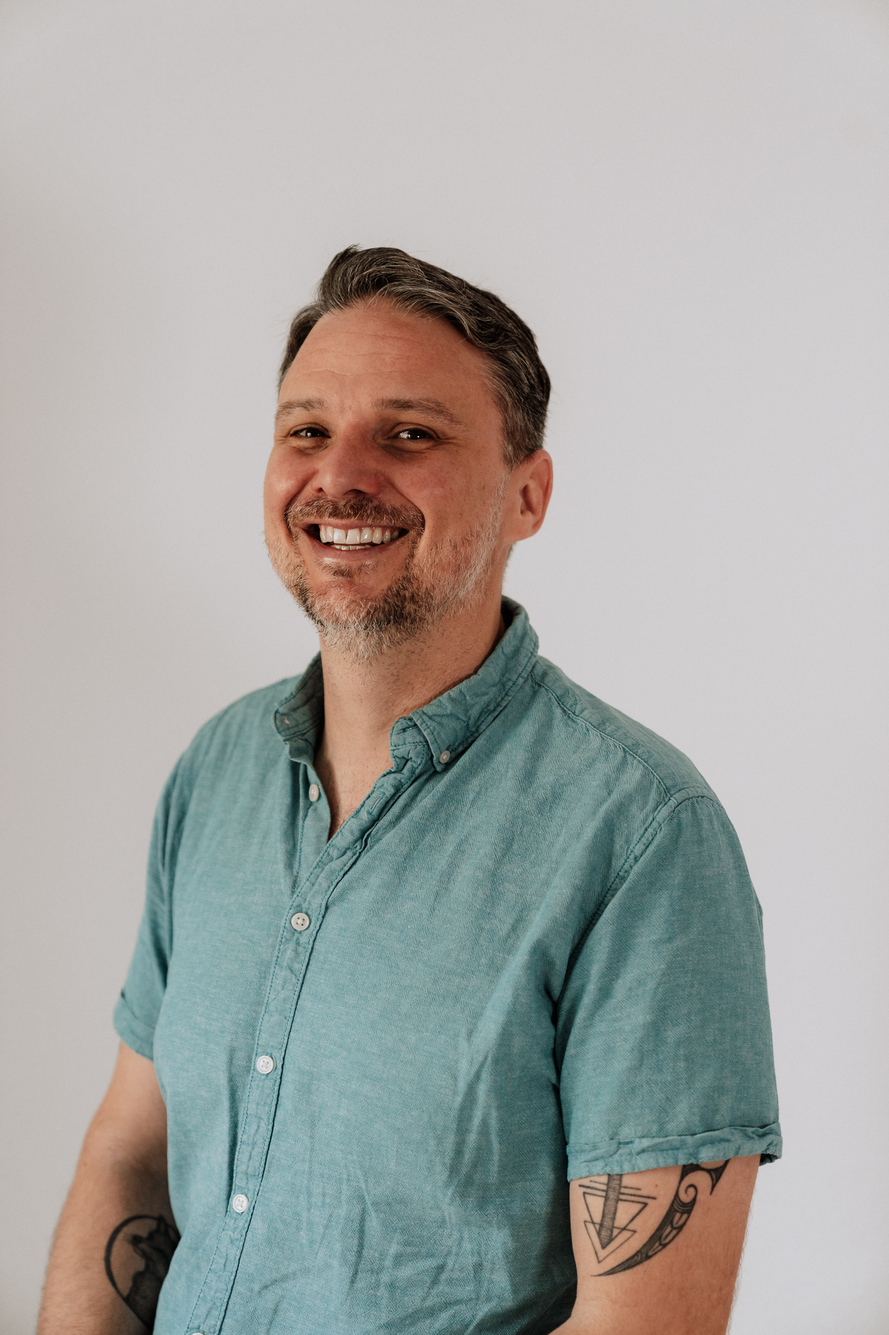
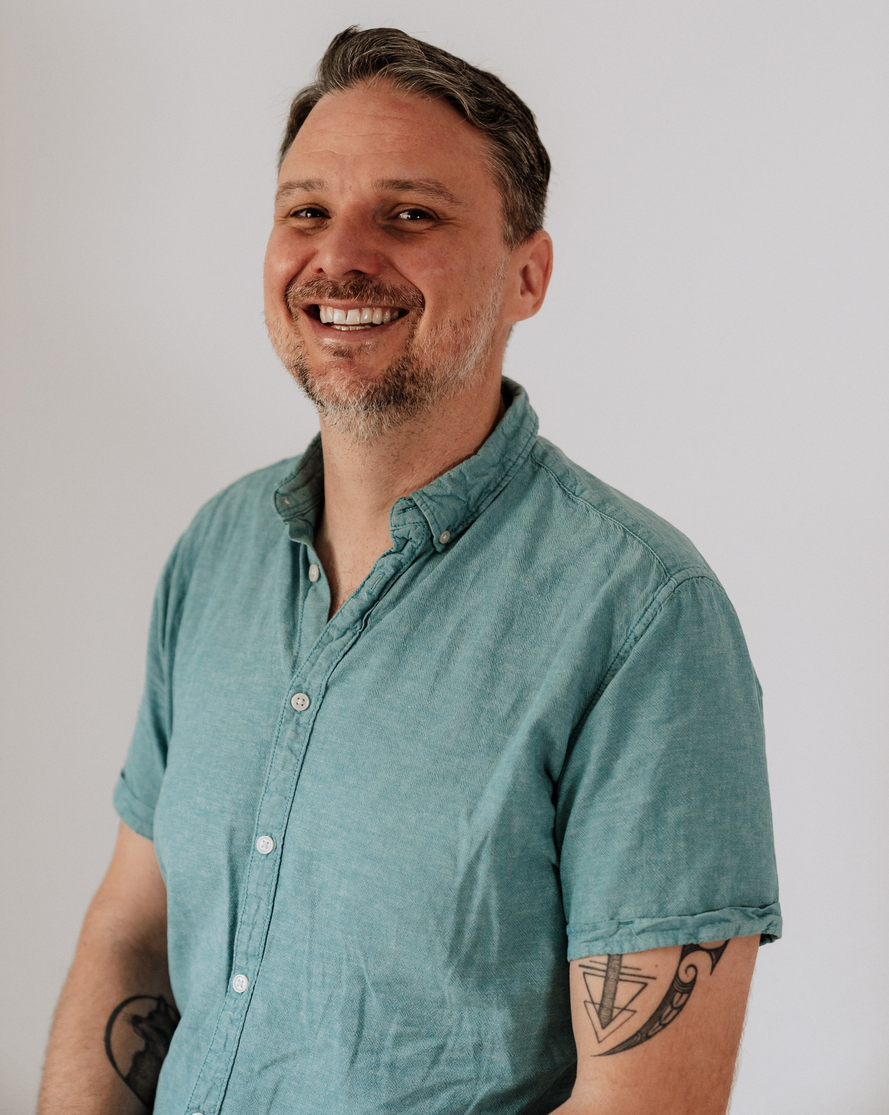
Pre-crop images to remove dead space, switch to object-top

Changed region(s): [[0.0312, 0.0, 0.9058, 1.0]]

diff --git a/src/app/[locale]/about/page.tsx b/src/app/[locale]/about/page.tsx
@@ -152,8 +152,7 @@ export default async function AboutPage({ params }: { params: Promise<{ locale: 
               <img
                 src="/jono/jono-about.jpg"
                 alt="Jono Fox"
-                className="w-full rounded-2xl object-cover max-h-[380px] md:max-h-[640px]"
-                style={{ objectPosition: "center 25%" }}
+                className="w-full rounded-2xl object-cover object-top max-h-[380px] md:max-h-[640px]"
                 loading="lazy"
               />
             </div>

diff --git a/src/app/[locale]/page.tsx b/src/app/[locale]/page.tsx
@@ -214,8 +214,7 @@ export default async function HomePage({ params }: { params: Promise<{ locale: s
             <img
               src="/jono/jono-hero.jpg"
               alt="Jono Fox"
-              className="w-full rounded-2xl object-cover max-h-[420px] md:max-h-[580px]"
-              style={{ objectPosition: "center 15%" }}
+              className="w-full rounded-2xl object-cover object-top max-h-[420px] md:max-h-[580px]"
               fetchPriority="high"
               loading="eager"
             />

diff --git a/src/app/[locale]/contact/page.tsx b/src/app/[locale]/contact/page.tsx
@@ -67,8 +67,7 @@ export default async function ContactPage({ params }: { params: Promise<{ locale
             <img
               src="/jono/jono-contact.jpg"
               alt="Jono Fox"
-              className="w-full rounded-2xl object-cover max-h-[380px] md:max-h-[560px]"
-              style={{ objectPosition: "center 20%" }}
+              className="w-full rounded-2xl object-cover object-top max-h-[380px] md:max-h-[560px]"
               loading="lazy"
             />
           </div>
